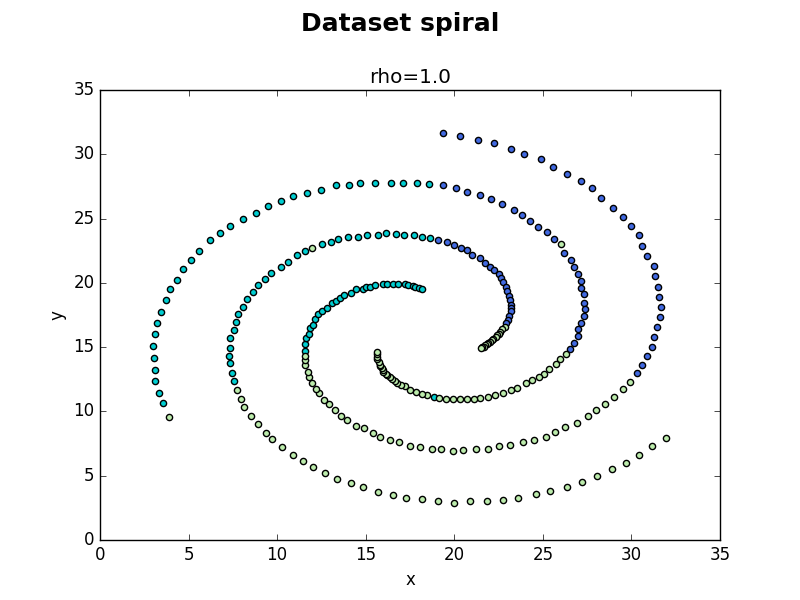
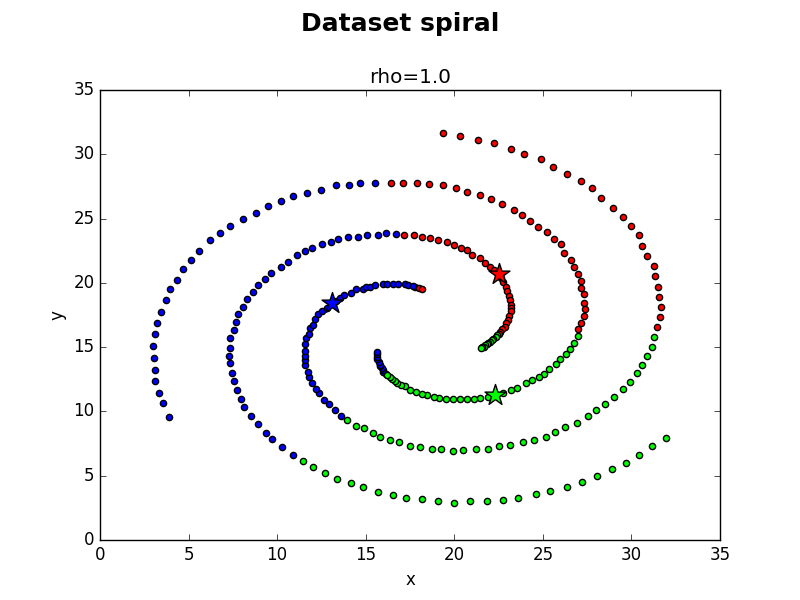
printing score at the end

diff --git a/src/main.py b/src/main.py
@@ -1,6 +1,7 @@
 #!/usr/bin/python
 
 import numpy as np
+import os
 from Algorithms import Cluster
 from Database import DatabaseSimepar
 from Dissimilarity import DensityDistance
@@ -10,14 +11,26 @@ from Database import DatabaseIris, TwoDimensionData
 # a = ['Compound.txt'  , 'flame.txt' ,'D31.txt',  'jain.txt' , 'pathbased.txt' , 'R15.txt' , 'spiral.txt']
 #a = ['Aggregation.txt' ] 
 # a = ['flame.txt', 'jain.txt']
-a = ['spiral.txt']
-for f in a:
+a = [('spiral.txt', 3)]
+
+results = []
+
+for f, K in a:
     fi = '../datasets/{}'.format(f)
     database = TwoDimensionData(fi, '\t')
-    # for rho in np.arange(1.0, 3.4, 0.2):
-    for rho in [2.8]:
+
+    base_name = os.path.basename(fi)
+    name = os.path.splitext(base_name)[0]
+
+    for rho in np.arange(1.0, 3.4, 0.2):
+    # for rho in [2.8]:
         dissimilarity = DensityDistance(rho=rho)
 
-        cluster = Cluster(database, dissimilarity, P_size=50, K=3, max_iterations=100)
+        cluster = Cluster(database, dissimilarity, P_size=50, K=K, max_iterations=50)
 
-        cluster.compute()
+        score, score_normalized = cluster.compute()
+        results.append((name, K, rho, score, score_normalized))
+
+
+for name, K, rho, score, score_normalized in results:
+    print("{};{};{};{:.8f};{:.8f}".format(name, K, rho, score, score_normalized))

diff --git a/src/Algorithms.py b/src/Algorithms.py
@@ -300,12 +300,15 @@ class Cluster:
                 for i in ind:
                     l[i] = i
 
-                print "info score ", metrics.adjusted_mutual_info_score(np.asarray(self.database.labels), np.asarray(l))
-                print "info score normalized ", metrics.normalized_mutual_info_score(np.asarray(self.database.labels),
+                score = metrics.adjusted_mutual_info_score(np.asarray(self.database.labels), np.asarray(l))
+                print "info score ", score
+                score_normalized = metrics.normalized_mutual_info_score(np.asarray(self.database.labels),
                                                                                      np.asarray(l))
+                print "info score normalized ", score_normalized
                 print ("===> l={}".format(l))
                 self.database.plot(self.dissimilarity.rho, self.data, l, ind)
-                break
+
+                return score, score_normalized
 
 
 
